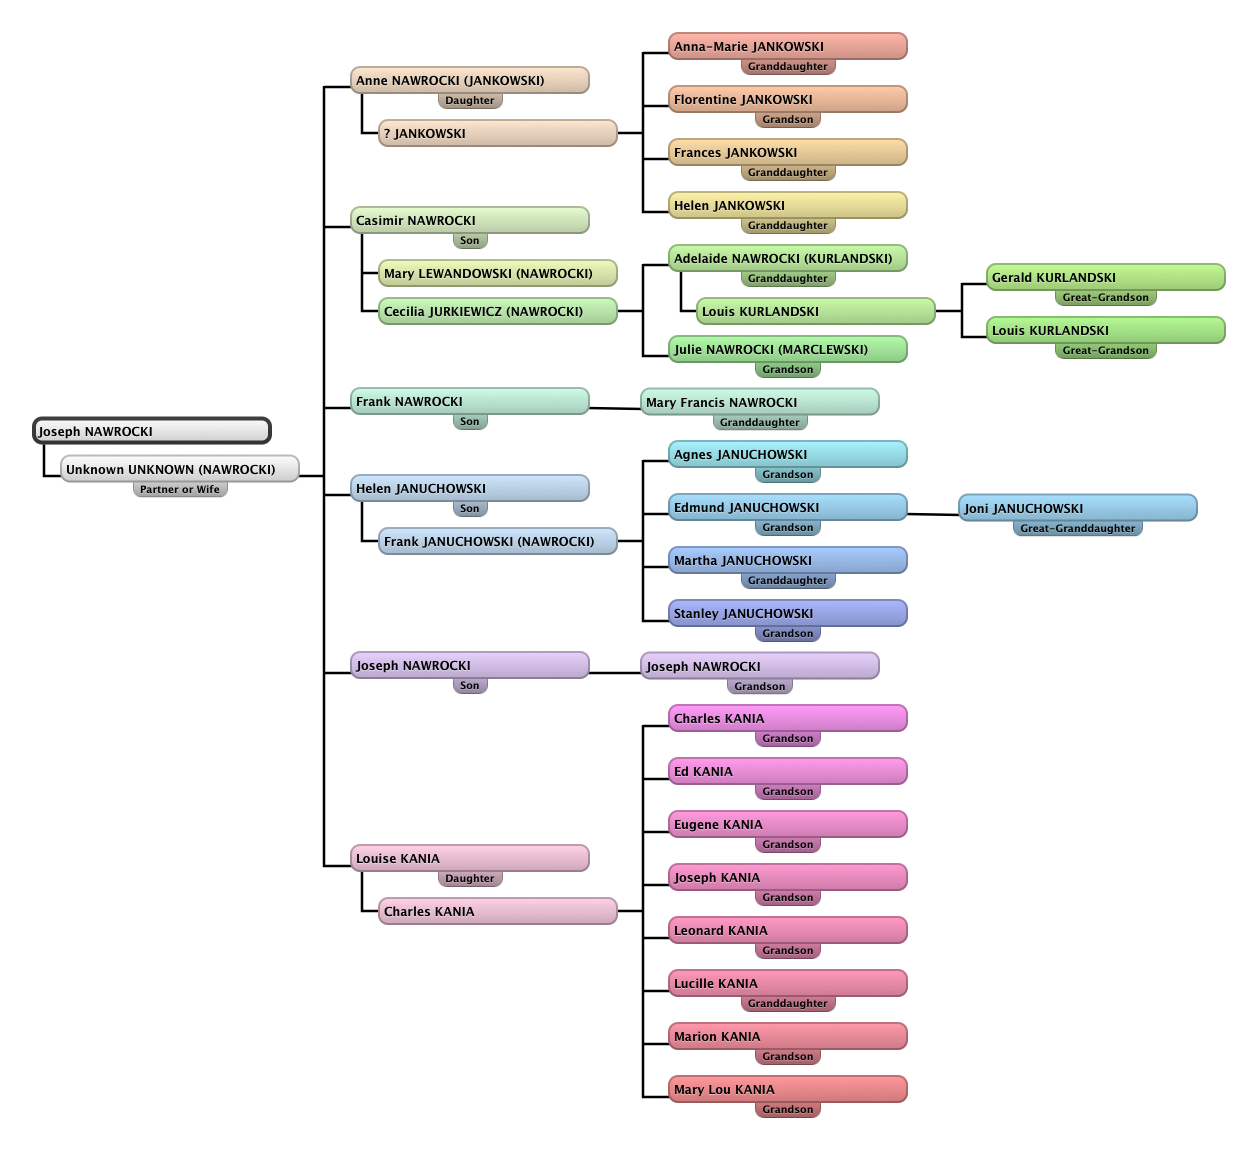
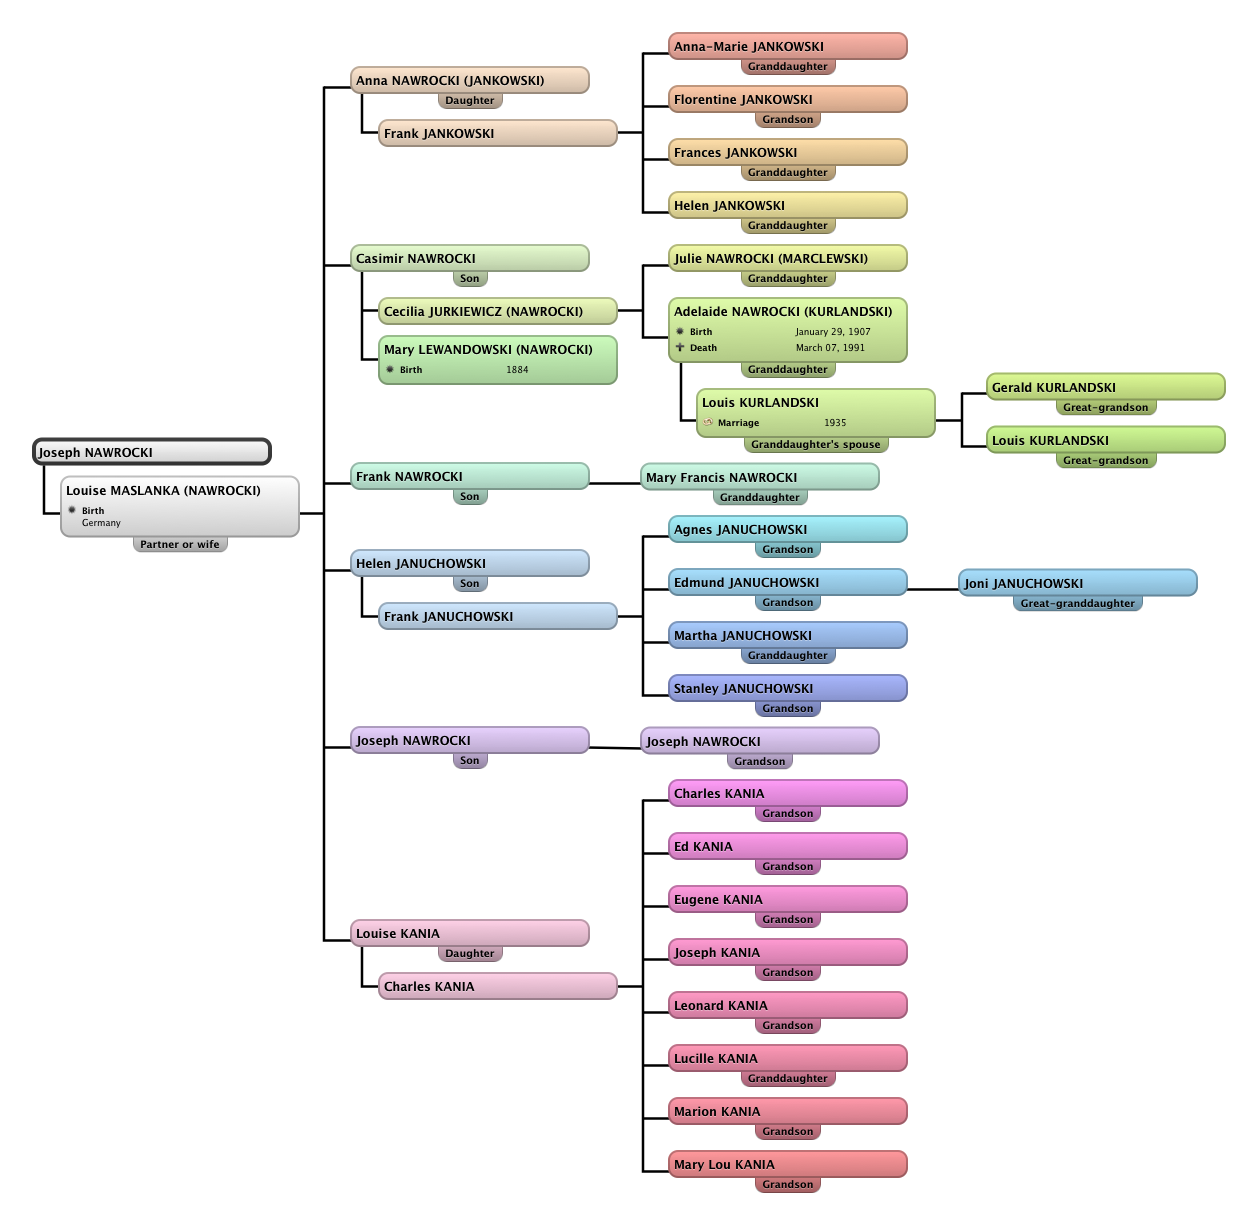
Elaboration of the Nawrocki side.

Changed region(s): [[0.248, 0.0, 0.9921, 0.9739], [0.031, 0.3348, 0.248, 0.4565]]

diff --git a/jkurlandskiWebsite/Index/Families/Nawrocki/adeleNawrocki.html b/jkurlandskiWebsite/Index/Families/Nawrocki/adeleNawrocki.html
@@ -27,7 +27,6 @@
 			<div id="logo">
 				<h1>Adventures in</h1>
 				<h1>Genealogy</h1>
-				<p></p>
 				<p>Jerry Kurlandski</p>
 			</div>
 			<div id="header-image1"> <a href="#" class="image"><img src="../../images/bookshelfPanorama.jpg" alt="" /></a> </div>
@@ -41,6 +40,12 @@
 				<h2>(Mimi)</h2>
 			</div>
 			<p>This page concerns the early years of my paternal grandmother, Adele Kurlandski, n&eacute;e Nawrocki. Her first grandchild, Cathy Kurlandski (later Cathy Schwartz) began calling her “Mimi” when she was just learning to talk, and the nickname stuck.</p>
+			<div class="figure">
+			    <div class="figcaption">
+			        <p>Adele Nawrocki and Kin</p>
+			    </div>
+			    <img src='./Hourglass Chart Adelaide NAWROCKI.png' alt='missing' width="750" height="220"/>
+			</div>
 			<h3><a id="CasmirAndCecilia">Casmir and Cecilia</a></h3>
 			<p>Mimi’s parents were Casmir Nawrocki and Cecilia Jurkiewicz. Their first child was Julie (or Julia), born somewhere around 1904. Adele, or Adelaide, was born 3 years later, on January 29, 1907.</p>
 			<div class="floatedfigure">
@@ -66,7 +71,7 @@
 			</div>
 			<p>Note that the wedding ceremony was held at the same St. Stanislaus Church mentioned in the pages concerning the Kurlandski side of my family. </p>
 			<p>As we have said, Mimi was born in January of 1907. Sadly, Cecilia never got to spend much time with her second daughter, for she died very shortly after the birth. The story goes that after Mimi was born, the medical staff did not clear all the afterbirth out of Cecilia’s womb, hence she took sick and shortly after died of perontinitis (blood poisoning).</p>
-			<p>I've done a little bit of googling on this, and I suspect that Cecilia's actual cause of death was puerperal fever, "a condition that results from an infection of the female reproductive organs, contracted during or following childbirth or miscarriage" (<a href="http://en.wikipedia.org/wiki/Puerperal_fever">Wikipedia: Puerperal_fever)</a></p>
+			<p>I've done a little bit of googling on this, and I suspect that Cecilia's actual cause of death was puerperal fever, "a condition that results from an infection of the female reproductive organs, contracted during or following childbirth or miscarriage" (<a href="http://en.wikipedia.org/wiki/Puerperal_fever">Wikipedia: Puerperal_fever).</a></p>
 			<p>Baby Adele was sickly, and almost went the way of her mother. She couldn’t keep down the milk they fed her and she became undernourished. Finally, it is said, somebody suggested they try goat’s milk, and she started to respond. Nevertheless, most of her young life, up to her teens, she was never a very healthy child. The family story is that it had something to do with her lungs: the X-rays showed something, but it wasn’t TB.</p>
 			<p>In the context of Cecilia’s death and her daughter’s difficult childhood, it seems worth mentioning that Cecilia had a sister, Estelle, who died at a very young age. Another interesting fact, medically speaking, is that Casmir was a pharmacist, and his father and his brother Joseph were both doctors. This may have come in handy as the family tried to care for little Adele—there wasn’t a lot of cash to spare.</p>
 			<h3><a id="EnterGramNawrocki">Enter Gram Nawrocki</a></h3>
@@ -77,14 +82,14 @@
 			        <p>Gram Nawrocki at 102, circa 1986</p>
 			    </div>
 			</div>
-			<p>Soon after Cecilia died, Casmir married Mary Lewandowski. The new bride became Mary Nawrocki, of course, and she lived to be over a hundred years old. Eventually she became known as "Gram Nawrocki." I will provide details as I get them, but here is a picture taken of Mary when she was 102 and crowned "Ms. Missouri Nursing Home Queen."</p>
-			<p>My single best opportunity to get to know Gram Nawrocki occurred on the day of my high school graduation. She would have been about 95 then. My mom and dad celebrated the occasion with a party, and she was invited. For some reason she lost her ride--probably Vick and Florence Marclewski--and I was the only available driver. I picked her up at the old folk’s home and drove her the hour to our house. We talked non-stop all the way. In the family there seemed to be some concern that being chauffeured by a teenager might have worried or flustered her, but when we arrived she complimented my driving profusely.</p>
-			<p>And we continued talking during the entire party. I was young, a little bit shy, and, I suppose, awkward at making conversation with the older relatives who had come to the party. So I stayed next to Gram and let people come to me. On the whole I had a good time at my graduation party. All I can say is it’s too bad she wasn’t sixty years younger, not to mention sixty years cuter—she was in her eighties then, and would live well past a hundred.</p>
+			<p>Soon after Cecilia died, Casmir married Mary Lewandowski. The new bride became Mary Nawrocki, of course, and she would live to be over a hundred years old. Eventually she became known as "Gram Nawrocki." I will provide details as I get them, but here is a picture taken of Mary when she was 102 and crowned "Ms. Missouri Nursing Home Queen."</p>
+			<p>My single best opportunity to get to know Gram Nawrocki occurred on the day of my high school graduation. She would have been about 95 then. My mom and dad celebrated the occasion with a party, and she was invited. For some reason she lost her ride--probably Vick and Florence Marchlewski--and I was the only available driver. I picked her up at the old folk’s home and drove her the hour to our house. In the family there seemed to be some concern that having a teenage boy as her chauffeur might have worried or flustered her, but when we arrived she made a point of saying what a good driver I was.</p>
+			<p>In the car we talked non-stop all the way. And we continued talking during the entire party. I was young, a little bit shy, and, I suppose, awkward at making conversation with the older relatives who had come to the party. So I stayed next to Gram and let people come to me. On the whole I had a good time at my graduation party.</p>
 			<p>But it’s true that I did not know her well. She only rarely put in an appearance at the Kurlandski holidays. For the most part she seemed to be member of the Marclewskis, that is, the family of Adele’s sister, Julie. And it must be said that Mimi, who rarely spoke ill of anyone, had very little to say about Gram when, one day, I began making enquiries into Mimi’s early life. She said nothing explicitly derogatory about her stepmother, but I could tell that unhappy memories were being brought to the surface, and I had a hard time getting Mimi to provide any details.</p>
-			<p>So I can't reconcile the Gram Nawrocki I knew with the woman who became my great-grandfather Casmir's second wife. Of course I don’t know what really happened. What I describe below is merely what is said to have happened.</p>
+			<p>So I cannot reconcile the Gram Nawrocki I knew with the woman who became my great-grandfather Casmir's second wife. Of course I don’t know what really happened. What I describe below is merely what people say happened.</p>
 			<p>It seems fair to say that Mary Lewandowski was not a very maternal woman, for, according to oral history, she declared that she did not “want to fool around with a sick baby”—that is, baby Adele. She and Casmir never had any children of their own.</p>
-			<p>As per their "prenuptual agreement," Casmir’s parents, Joseph and Louise Nawrocki, took in Adele. Although Mary is said to have expressed a willingness to raise Julie, Louise kept both girls, saying, “You’re not going to separate them.” Louise was known as Babka (Polish for "Grandma").</p>
-			<h3><a id="GrowingUp">Growing Up</a></h3>
+			<p>As per their "prenuptual agreement," Casmir’s parents, Joseph and Louise Nawrocki, took in Adele. Although Mary is said to have expressed a willingness to raise Julie, Louise kept both girls, insisting, “You’re not going to separate them.” Louise was known as Babka (Polish for "Grandma").</p>
+			<h3><a id="EarlyYears">Early Years</a></h3>
 			<div class="floatedtable">
 				<table border="1">
 <!-- 					<caption><a href="https://familysearch.org/pal:/MM9.1.1/M21F-RLL?cc=1727033">FamilySearch.org source, 1910 for Joseph Nawrocki</a></caption> -->
@@ -200,7 +205,22 @@
 			</div>
 			<p>The same census has both Adele and Julie living in their father's home with their stepmother, Mary.</p>
 			<p>Obviously, the two families did not get their story straight in advance of the 1910 Census.</p>
-			<p>Just as obviously, the family oral history does not exactly coincide with the census. Here is one way we might reconcile the two. When Casmir first married, Babka took in both girls. But as Julie got older she spent more and more time with her father and stepmother. By the time she turned five, Julie was for the most part living with them. Not Adele, though--Adele was still living with her grandparents. But Casmir or Mary did not care to admit this, so one of them stretched the truth a little bit when the census-taker came around.</p>
+			<p>Here is one way we might reconcile the family oral history with the census. When Casmir first married, Babka took in both girls. But as Julie got older she spent more and more time with her father and stepmother. By the time she turned five, Julie was for the most part living with them. Not Adele, though--Adele was still living with her grandparents. But Casmir or Mary did not care to admit this, so one of them stretched the truth a little bit when the census-taker came around.</p>
+			<h3><a id="CiociaWujek">Ciocia and Wujek Move In</a></h3>
+			<p>In 1910 Babka and her family were living on Minnesota, possibly at 4709. Babka and Joseph owned the building and occupied the ground floor flat, while their daughter Anna's family lived in the flat upstairs. Anna had married Frank Jankowski.</p>
+			<p>I knew Anna as "Ciocia," Polish for Aunt. As a child, I pronounced the word as "Chu-chu," with a short u as in "chunk." But a more correct pronunciation of the word can be found <a href="http://en.bab.la/dictionary/polish-english/ciocia">here</a>. (At least, as long as the link remains alive.)</p>
+			<p>Ciocia died when I was about 12 or so, which would have been around 1973. For a time my family lived in Cleveland, so we saw her at most once a year. She lived downstairs from Mimi on Louisiana Street. I remember that every time we would pack up the car to head back for home, Ciocia would start crying, believing that that would be the last time she would see us.</p>
+			<p>I never knew Frank, Ciocia's husband. He was called Wujek ("maternal uncle"). Its pronunciation can be found <a href="http://en.bab.la/dictionary/english-polish/uncle">here</a>. When my father pronounces the word, he drops the final "k" sound. I don't know whether the version without the "k" is a more informal term of endearment (as in "Ma" for "Mother"), or whether my father mispronounced it as a child, in the same way I always mispronounced Ciocia.</p>
+			<div class="figure">
+			    <img src='./Hourglass Chart Anna NAWROCKI.png' alt='missing' width="750" height="220"/>
+			    <div class="figcaption">
+			        <p>Family of Anna and Frank (Ciocia and Wujek)</p>
+			    </div>
+			</div>
+			<p>Ciocia and Wujek would eventually have four daughters--Helen, Anna-Marie, Florentine and Frances. They were Mimi's first cousins.</p>
+			<p>The four girls might have seemed like sisters to Adele, so closely did she grow up with them, especially once Babka's husband, Joseph, died. The story goes that the newly-widowed Babka found herself with no means of support apart from the building she lived in. To get by, she would have to rent out the flat upstairs, so the Jankowskis moved in.</p>
+			<p>I don't know how many Jankowskis there were at the time, but having been inside several South St. Louis flats, I imagine they were pretty crowded there. (Recall that the family history has Adele's sister, Julie, living with them as well.) When Anna was expecting Anne-Marie, Babka sold the building and gave Wujek the money for a down payment on a house on Pulaski Street. Then Babka, Adele and perhaps even Julie moved in with Ciocia and Wujek at 3227 Pulaski near St Hedwig’s Church. Shortly after that Julie married Vick Marchlewski, and shortly after that Adele moved in with the newlyweds.</p>
+			<p>Presently I don't have dates for any of these events. After 1910, the next date I have is 1935--the year in which Mimi married Louis U. Kurlandski.</p>
 		</div>
 		<div id="sidebar">
 			<div class="internalLinkBox">
@@ -210,7 +230,8 @@
 				<ul class="style2">
 					<li><a href="#CasmirAndCeliia">Casmir and Cecilia</a></li>
 					<li><a href="#EnterGramNawrocki">Enter Gram Nawrocki</a></li>
-					<li><a href="#GrowingUp">Growing Up</a></li>
+					<li><a href="#EarlyYears">Early Years</a></li>
+					<li><a href="#CiociaWujek">Ciocia and Wujek Move In</a></li>
 				</ul>
 			</div>
 			<br>
@@ -219,10 +240,10 @@
 					<h2>Nawrocki Links</h2>
 				</div>
 				<ul class="style2">
-<!-- 			<a href="Descendant Chart Joseph NAWROCKI.png">Joseph Nawrocki Descendant Chart</a> -->
-<!-- 			<a href="adele.html">Adele</a> -->
+					<li><a href="adeleNawrocki.html">Adele Nawrocki</a></li>
+					<li><a href="nawrockiMiscellanea.html">Nawrocki Miscellanea</a></li>
 					<li><a href="Descendant Chart Joseph NAWROCKI.png">Joseph Nawrocki Descendant Chart</a></li>
-					<li><a href="adele.html">Adele Nawrocki (Mimi)</a></li>
+					<li><a href="Descendant Chart Antoni JURKIEWICZ.png">Antoni Jurkiewicz Descendant Chart</a></li>
 				</ul>
 			</div>
 		</div>

diff --git a/jkurlandskiWebsite/Index/Families/Nawrocki/nawrockiMiscellanea.html b/jkurlandskiWebsite/Index/Families/Nawrocki/nawrockiMiscellanea.html
@@ -1,0 +1,86 @@
+<!DOCTYPE html PUBLIC "-//W3C//DTD XHTML 1.0 Strict//EN" "http://www.w3.org/TR/xhtml1/DTD/xhtml1-strict.dtd">
+<html xmlns="http://www.w3.org/1999/xhtml">
+<head>
+<meta http-equiv="Content-Type" content="text/html; charset=utf-8" />
+<title>WeddingInvitation</title>
+<meta name="keywords" content="" />
+<meta name="description" content="" />
+<link href="../../default.css" rel="stylesheet" type="text/css" media="all" />
+<link href="../../fonts.css" rel="stylesheet" type="text/css" media="all" />
+<!--[if IE 6]>
+<link href="default_ie6.css" rel="stylesheet" type="text/css" />
+<![endif]-->
+</head>
+<body>
+<div id="wrapper">
+	<div id="header-wrapper">
+		<div id="menu" class="container">
+			<ul>
+				<li><a href="../../index.html">Homepage</a></li>
+				<li><a href="../families.html">Families</a></li>
+				<li><a href="../../about.html">About</a></li>
+				<li><a href="../../contact.html">Contact</a></li>
+			</ul>
+		</div>
+		<!-- end #menu -->
+		<div id="header" class="container">
+			<div id="logo">
+				<h1>Adventures in</h1>
+				<h1>Genealogy</h1>
+				<p>Jerry Kurlandski</p>
+			</div>
+			<div id="header-image1"> <a href="#" class="image"><img src="../../images/bookshelfPanorama.jpg" alt="" /></a> </div>
+			<div id="header-image2"> <a href="#" class="image"><img src="../../images/bookshelfPanorama.jpg" alt="" /></a> </div>
+		</div>
+	</div>
+	<div id="page" class="container">
+		<div id="content">
+			<div class="title">
+				<h2>Nawrocki Miscellanea</h2>
+			</div>
+			<p>Here I throw in some miscellaneous pieces of information on the Nawrocki clan which are not extensive enough (yet) to merit their own pages.</p>
+			<h3><a id="LouiseJoseph">Louise and Joseph Nawrocki</a></h3>
+			<p>In the U.S. at least, the Nawrocki clan begins with Louise (aka Babka) and Joseph. The tree below captures all of their children, and most of their children's spouses. More work needs to be done here.</p>
+			<div class="figure">
+			    <img src='./Babka Nawrocki and Children.png' alt='missing' width="750" height="1020"/>
+			    <div class="figcaption">
+			        <p>Babka and Joseph Nawrocki and Children</p>
+			    </div>
+			</div>
+			<p>What about before their arrival in the U.S.? I have only a hint of that.</p>
+			<p>It looks as though Joseph was born in Germany in 1854. And Louise (Ludwika) was born in Bydgoszcz, Poland in 1852.</p>
+			<p>This information comes from this <a href="http://boards.ancestry.com/thread.aspx?mv=flat&m=86&p=localities.ceeurope.poland.provinces1975-1998.bydgoszcz">geneaology site</a>. It seems to have been posted by Joe Nawrocki, the son of Babka's son Joseph. One day, hopefully soon, I will contact him for more information.</p>
+			<p>The homes of the other clans in my father's tree--the Kurlandskis, the Jankowskis and the Marchlewskis--centered around St. Hedwig's Parish on the South Side. The Nawrockis lived a bus ride away--the landmark of their neighborhood being the Famous & Bar department store. For this reason my father did not grow up as close to the Nawrockis as to the other families.</p>
+ 			<h3><a id="MaryFrances">Mary Frances</a></h3>
+ 			<p>Frank Nawrocki, in the tree above, had a daughter named Mary Frances. While googling "Nawrocki" I learned that she was the first woman to graduate from St. Louis University's School of Medicine. More on that <a href="http://www.slu.edu/x39828.xml">here</a>.</p>
+		</div>
+		<div id="sidebar">
+			<div class="internalLinkBox">
+				<div class="title">
+					<h2>Links on this Page</h2>
+				</div>
+				<ul class="style2">
+					<li><a href="#LouiseJoseph">Louise and Joseph Nawrocki</a></li>
+					<li><a href="#MaryFrances">Mary Frances</a></li>
+				</ul>
+			</div>
+			<br>
+			<div class="internalLinkBox">
+				<div class="title">
+					<h2>Nawrocki Links</h2>
+				</div>
+				<ul class="style2">
+					<li><a href="adeleNawrocki.html">Adele Nawrocki</a></li>
+					<li><a href="nawrockiMiscellanea.html">Nawrocki Miscellanea</a></li>
+					<li><a href="Descendant Chart Joseph NAWROCKI.png">Joseph Nawrocki Descendant Chart</a></li>
+					<li><a href="Descendant Chart Antoni JURKIEWICZ.png">Antoni Jurkiewicz Descendant Chart</a></li>
+				</ul>
+			</div>
+		</div>
+	</div>
+</div>
+<div id="copyright" class="container">
+	<p>Copyright (c) 2013 jkurlandski.com. All rights reserved. | Original design by <a href="http://www.freecsstemplates.org/" rel="nofollow">FreeCSSTemplates.org</a>.</p>
+</div>
+</body>
+</html>

diff --git a/jkurlandskiWebsite/Index/Families/Nawrocki/nawrocki.html b/jkurlandskiWebsite/Index/Families/Nawrocki/nawrocki.html
@@ -58,10 +58,10 @@
 					<h2>Nawrocki Links</h2>
 				</div>
 				<ul class="style2">
-<!-- 			<a href="Descendant Chart Joseph NAWROCKI.png">Joseph Nawrocki Descendant Chart</a> -->
-<!-- 			<a href="adele.html">Adele</a> -->
+					<li><a href="adeleNawrocki.html">Adele Nawrocki</a></li>
+					<li><a href="nawrockiMiscellanea.html">Nawrocki Miscellanea</a></li>
 					<li><a href="Descendant Chart Joseph NAWROCKI.png">Joseph Nawrocki Descendant Chart</a></li>
-					<li><a href="adele.html">Adele Nawrocki</a></li>
+					<li><a href="Descendant Chart Antoni JURKIEWICZ.png">Antoni Jurkiewicz Descendant Chart</a></li>
 				</ul>
 			</div>
 		</div>

diff --git a/jkurlandskiWebsite/Index/index.html b/jkurlandskiWebsite/Index/index.html
@@ -56,6 +56,7 @@
 					<h2>Recent Updates</h2>
 				</div>
 				<ul class="style2">
+					<li>3/29/2014: New "Adele Nawrocki" page. Updated Nawrocki family tree. Created Anotoni Jurkiewicz family tree.</li>
 					<li>2/22/2014: New "Ludwig Kurlandsky Careers" page.</li>
 					<li>2/22/2014: "Recent Updates" turned into a scrolling box.</li>
 					<li>12/30/2013: New info on "Sophia and Ludwig, Early Years" page.</li>
